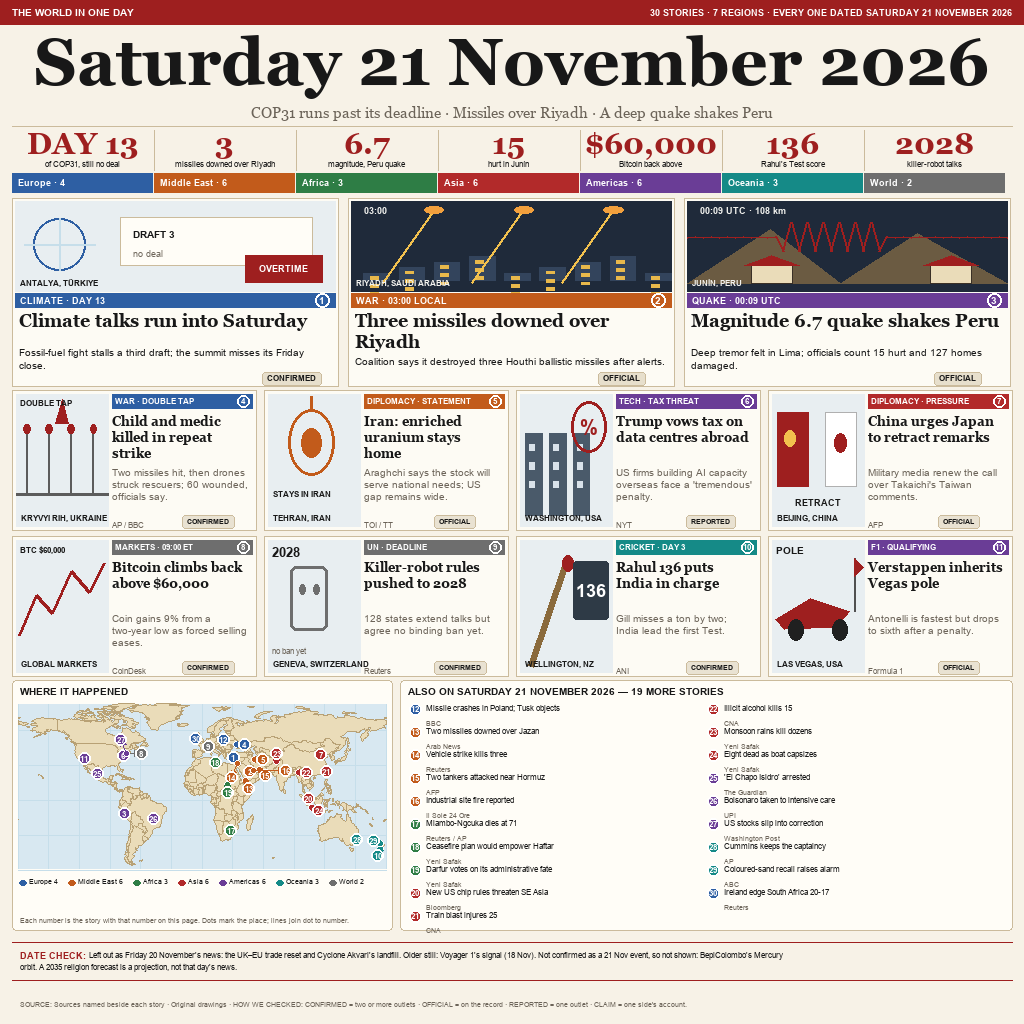
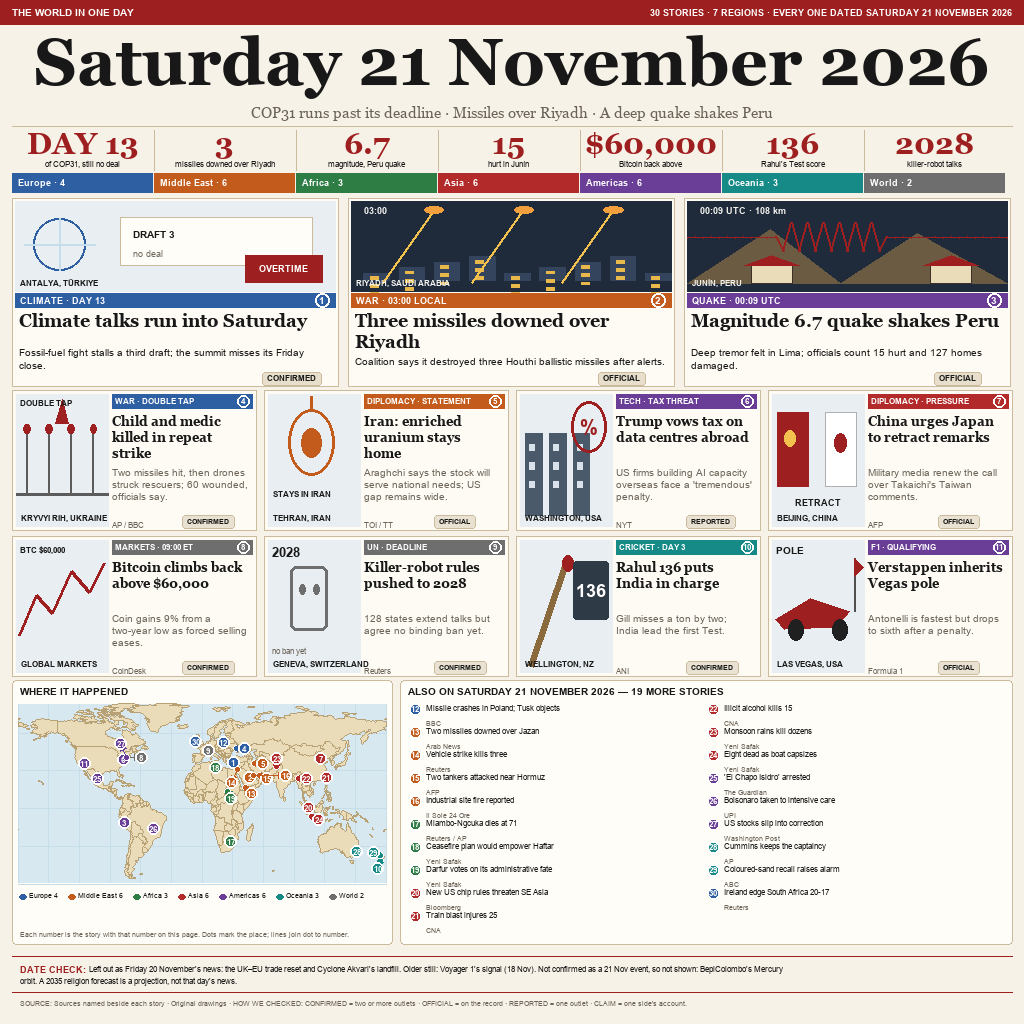
Tighten DATE CHECK and SOURCE to bottom edge

Changed region(s): [[0.0, 0.6875, 0.9688, 1.0]]

diff --git a/render.py b/render.py
@@ -391,21 +391,21 @@ def build(out="entry.png"):
         put(d, (x + 100, y + 131), s["source"], font(7.5), MUTED)
         chip(d, x + cw - 74, y + 125, s["status"], fill="#E9E2D2", fsize=7)
 
-    map_panel(d, (12, 680, 392, 930))
-    list_panel(d, (400, 680, W - 12, 930))
+    map_panel(d, (12, 680, 392, 944))
+    list_panel(d, (400, 680, W - 12, 944))
 
-    # DATE CHECK sits between two rules; the source line follows below,
-    # indented and close to the bottom edge of the image.
-    d.line([12, 942, W - 12, 942], fill=rgb(RED), width=1)
+    # DATE CHECK between two rules; SOURCE sticks right under the lower rule,
+    # both pushed down to the bottom edge of the image.
+    d.line([12, 956, W - 12, 956], fill=rgb(RED), width=1)
     label = "DATE CHECK: "
     fl, fb = font(9, True), font(8)
-    put(d, (20, 950), label, fl, rgb(RED))
+    put(d, (20, 964), label, fl, rgb(RED))
     indent = 20 + d.textlength(label, font=fl)
     lines = wrap(DATE_CHECK, fb, 700, d)
     for i, ln in enumerate(lines[:2]):
-        put(d, (20 if i else indent, 950 + i * 12), ln, fb, INK)
-    d.line([12, 980, W - 12, 980], fill=rgb(RED), width=1)
-    put(d, (20, 1000), "SOURCE: " + SOURCES_LINE, font(7), MUTED)
+        put(d, (20 if i else indent, 964 + i * 12), ln, fb, INK)
+    d.line([12, 992, W - 12, 992], fill=rgb(RED), width=1)
+    put(d, (20, 999), "SOURCE: " + SOURCES_LINE, font(7), MUTED)
 
     im.save(out, "PNG", optimize=True)
     return out

diff --git a/audit.py b/audit.py
@@ -66,13 +66,13 @@ def main():
 
     # five coordinates checked by hand against the projection:
     # (story number, expected continent box in projected pixels)
-    mx0, my0, mx1, my1 = 18, 704, 386, 868
+    mx0, my0, mx1, my1 = 18, 704, 386, 882
     def proj(lon, lat):
         return (mx0 + (lon + 180) / 360 * (mx1 - mx0),
                 my0 + (83 - lat) / 141 * (my1 - my0))
-    spots = [(1, (210, 255, 750, 770), "Antalya"), (2, (230, 270, 765, 785), "Riyadh"),
-             (3, (105, 145, 815, 825), "Junin"), (10, (365, 390, 860, 860), "Wellington"),
-             (17, (210, 250, 845, 845), "Pretoria")]
+    spots = [(1, (210, 255, 750, 775), "Antalya"), (2, (230, 270, 765, 790), "Riyadh"),
+             (3, (105, 145, 815, 835), "Junin"), (10, (365, 390, 860, 870), "Wellington"),
+             (17, (210, 250, 845, 855), "Pretoria")]
     for n, (bx0, by0, bx1, by1), label in spots:
         s = next(x for x in STORIES if x["n"] == n)
         px, py = proj(s["lon"], s["lat"])
